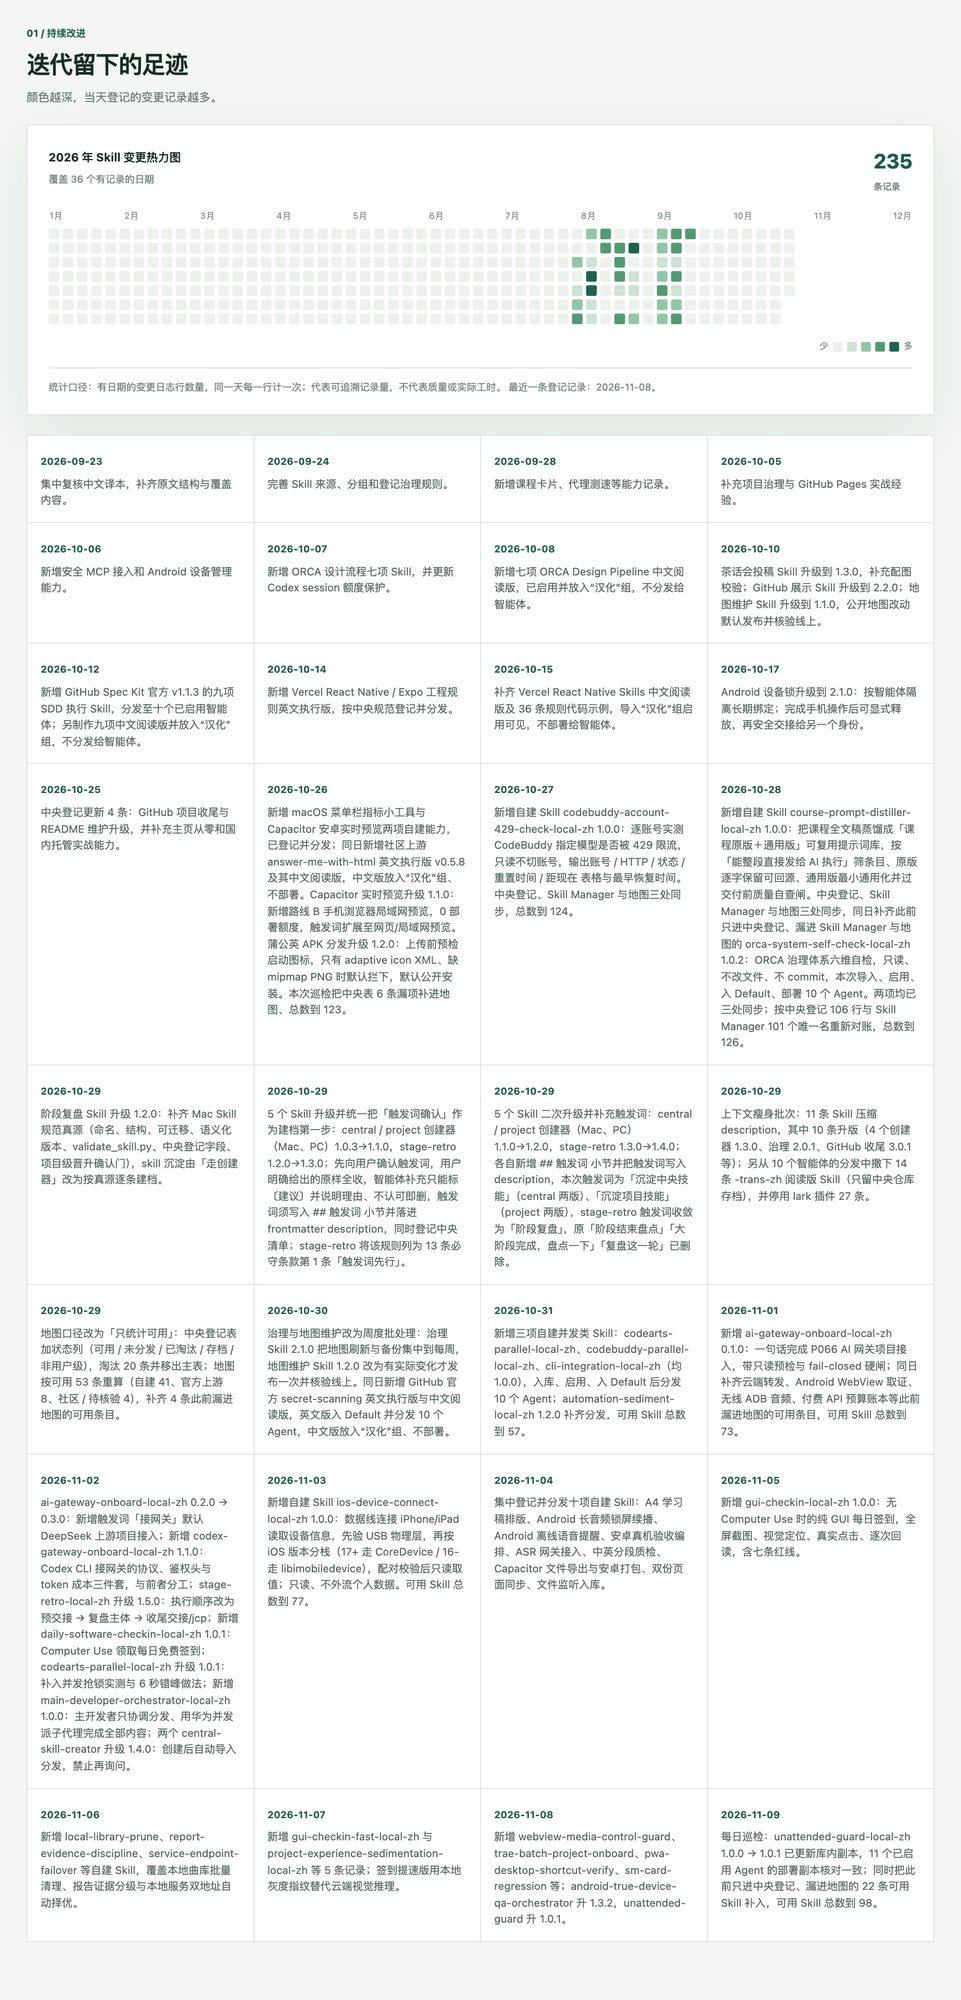
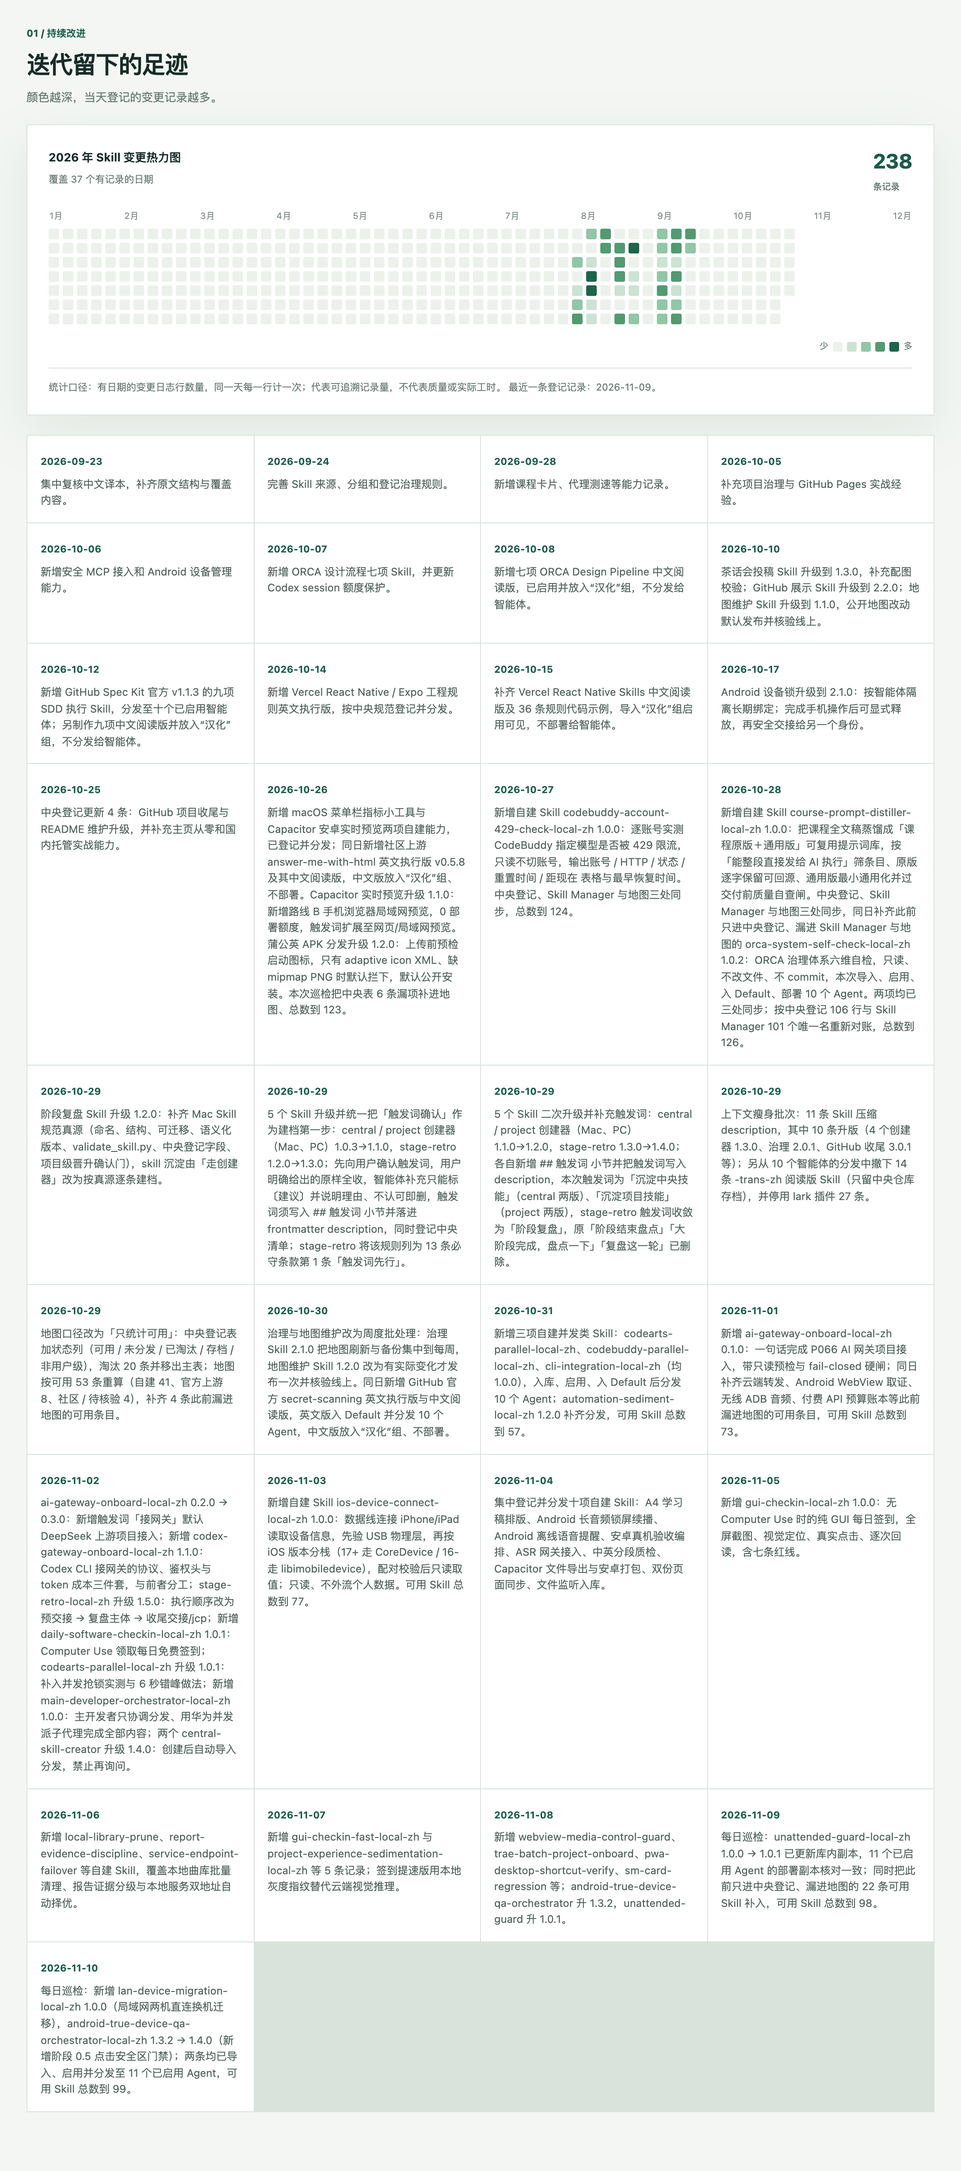
每日巡检：新增换机迁移 Skill，更新真机验收编排到 1.4.0
同步 2026-11-10 中央登记：新增 lan-device-migration-local-zh 1.0.0，
android-true-device-qa-orchestrator-local-zh 升至 1.4.0；可用 Skill 共 99 项，
重截持续改进与能力盘点截图。

diff --git a/index.html b/index.html
@@ -119,7 +119,7 @@
     }
     document.getElementById('heatMonths').innerHTML=['1月','2月','3月','4月','5月','6月','7月','8月','9月','10月','11月','12月'].map(x=>`<span>${x}</span>`).join('');
     const dated=[...data.events].sort((a,b)=>b.date.localeCompare(a.date));const latest=dated[0]?.date||'—';document.getElementById('heatCaption').textContent=`统计口径：${data.countDefinition} 最近一条登记记录：${latest}。`;
-    const highlights=[['2026-09-23','集中复核中文译本，补齐原文结构与覆盖内容。'],['2026-09-24','完善 Skill 来源、分组和登记治理规则。'],['2026-09-28','新增课程卡片、代理测速等能力记录。'],['2026-10-05','补充项目治理与 GitHub Pages 实战经验。'],['2026-10-06','新增安全 MCP 接入和 Android 设备管理能力。'],['2026-10-07','新增 ORCA 设计流程七项 Skill，并更新 Codex session 额度保护。'],['2026-10-08','新增七项 ORCA Design Pipeline 中文阅读版，已启用并放入“汉化”组，不分发给智能体。'],['2026-10-10','茶话会投稿 Skill 升级到 1.3.0，补充配图校验；GitHub 展示 Skill 升级到 2.2.0；地图维护 Skill 升级到 1.1.0，公开地图改动默认发布并核验线上。'],['2026-10-12','新增 GitHub Spec Kit 官方 v1.1.3 的九项 SDD 执行 Skill，分发至十个已启用智能体；另制作九项中文阅读版并放入“汉化”组，不分发给智能体。'],['2026-10-14','新增 Vercel React Native / Expo 工程规则英文执行版，按中央规范登记并分发。'],['2026-10-15','补齐 Vercel React Native Skills 中文阅读版及 36 条规则代码示例，导入“汉化”组启用可见，不部署给智能体。'],['2026-10-17','Android 设备锁升级到 2.1.0：按智能体隔离长期绑定；完成手机操作后可显式释放，再安全交接给另一个身份。'],['2026-10-25','中央登记更新 4 条：GitHub 项目收尾与 README 维护升级，并补充主页从零和国内托管实战能力。'],['2026-10-26','新增 macOS 菜单栏指标小工具与 Capacitor 安卓实时预览两项自建能力，已登记并分发；同日新增社区上游 answer-me-with-html 英文执行版 v0.5.8 及其中文阅读版，中文版放入“汉化”组、不部署。Capacitor 实时预览升级 1.1.0：新增路线 B 手机浏览器局域网预览，0 部署额度，触发词扩展至网页/局域网预览。蒲公英 APK 分发升级 1.2.0：上传前预检启动图标，只有 adaptive icon XML、缺 mipmap PNG 时默认拦下，默认公开安装。本次巡检把中央表 6 条漏项补进地图、总数到 123。'],['2026-10-27','新增自建 Skill codebuddy-account-429-check-local-zh 1.0.0：逐账号实测 CodeBuddy 指定模型是否被 429 限流，只读不切账号，输出账号 / HTTP / 状态 / 重置时间 / 距现在 表格与最早恢复时间。中央登记、Skill Manager 与地图三处同步，总数到 124。'],['2026-10-28','新增自建 Skill course-prompt-distiller-local-zh 1.0.0：把课程全文稿蒸馏成「课程原版＋通用版」可复用提示词库，按「能整段直接发给 AI 执行」筛条目、原版逐字保留可回源、通用版最小通用化并过交付前质量自查闸。中央登记、Skill Manager 与地图三处同步，同日补齐此前只进中央登记、漏进 Skill Manager 与地图的 orca-system-self-check-local-zh 1.0.2：ORCA 治理体系六维自检，只读、不改文件、不 commit，本次导入、启用、入 Default、部署 10 个 Agent。两项均已三处同步；按中央登记 106 行与 Skill Manager 101 个唯一名重新对账，总数到 126。'],['2026-10-29','阶段复盘 Skill 升级 1.2.0：补齐 Mac Skill 规范真源（命名、结构、可迁移、语义化版本、validate_skill.py、中央登记字段、项目级晋升确认门），skill 沉淀由「走创建器」改为按真源逐条建档。'],['2026-10-29','5 个 Skill 升级并统一把「触发词确认」作为建档第一步：central / project 创建器（Mac、PC）1.0.3→1.1.0，stage-retro 1.2.0→1.3.0；先向用户确认触发词，用户明确给出的原样全收，智能体补充只能标〔建议〕并说明理由、不认可即删，触发词须写入 ## 触发词 小节并落进 frontmatter description，同时登记中央清单；stage-retro 将该规则列为 13 条必守条款第 1 条「触发词先行」。'],['2026-10-29','5 个 Skill 二次升级并补充触发词：central / project 创建器（Mac、PC）1.1.0→1.2.0，stage-retro 1.3.0→1.4.0；各自新增 ## 触发词 小节并把触发词写入 description，本次触发词为「沉淀中央技能」（central 两版）、「沉淀项目技能」（project 两版），stage-retro 触发词收敛为「阶段复盘」，原「阶段结束盘点」「大阶段完成，盘点一下」「复盘这一轮」已删除。'],['2026-10-29','上下文瘦身批次：11 条 Skill 压缩 description，其中 10 条升版（4 个创建器 1.3.0、治理 2.0.1、GitHub 收尾 3.0.1 等）；另从 10 个智能体的分发中撤下 14 条 -trans-zh 阅读版 Skill（只留中央仓库存档），并停用 lark 插件 27 条。'],['2026-10-29','地图口径改为「只统计可用」：中央登记表加状态列（可用 / 未分发 / 已淘汰 / 存档 / 非用户级），淘汰 20 条并移出主表；地图按可用 53 条重算（自建 41、官方上游 8、社区 / 待核验 4），补齐 4 条此前漏进地图的可用条目。'],['2026-10-30','治理与地图维护改为周度批处理：治理 Skill 2.1.0 把地图刷新与备份集中到每周，地图维护 Skill 1.2.0 改为有实际变化才发布一次并核验线上。同日新增 GitHub 官方 secret-scanning 英文执行版与中文阅读版，英文版入 Default 并分发 10 个 Agent，中文版放入“汉化”组、不部署。'],['2026-10-31','新增三项自建并发类 Skill：codearts-parallel-local-zh、codebuddy-parallel-local-zh、cli-integration-local-zh（均 1.0.0），入库、启用、入 Default 后分发 10 个 Agent；automation-sediment-local-zh 1.2.0 补齐分发，可用 Skill 总数到 57。'],['2026-11-01','新增 ai-gateway-onboard-local-zh 0.1.0：一句话完成 P066 AI 网关项目接入，带只读预检与 fail-closed 硬闸；同日补齐云端转发、Android WebView 取证、无线 ADB 音频、付费 API 预算账本等此前漏进地图的可用条目，可用 Skill 总数到 73。'],['2026-11-02','ai-gateway-onboard-local-zh 0.2.0 → 0.3.0：新增触发词「接网关」默认 DeepSeek 上游项目接入；新增 codex-gateway-onboard-local-zh 1.1.0：Codex CLI 接网关的协议、鉴权头与 token 成本三件套，与前者分工；stage-retro-local-zh 升级 1.5.0：执行顺序改为预交接 → 复盘主体 → 收尾交接/jcp；新增 daily-software-checkin-local-zh 1.0.1：Computer Use 领取每日免费签到；codearts-parallel-local-zh 升级 1.0.1：补入并发抢锁实测与 6 秒错峰做法；新增 main-developer-orchestrator-local-zh 1.0.0：主开发者只协调分发、用华为并发派子代理完成全部内容；两个 central-skill-creator 升级 1.4.0：创建后自动导入分发，禁止再询问。'],['2026-11-03','新增自建 Skill ios-device-connect-local-zh 1.0.0：数据线连接 iPhone/iPad 读取设备信息，先验 USB 物理层，再按 iOS 版本分栈（17+ 走 CoreDevice / 16- 走 libimobiledevice），配对校验后只读取值；只读、不外流个人数据。可用 Skill 总数到 77。'],['2026-11-04','集中登记并分发十项自建 Skill：A4 学习稿排版、Android 长音频锁屏续播、Android 离线语音提醒、安卓真机验收编排、ASR 网关接入、中英分段质检、Capacitor 文件导出与安卓打包、双份页面同步、文件监听入库。'],['2026-11-05','新增 gui-checkin-local-zh 1.0.0：无 Computer Use 时的纯 GUI 每日签到，全屏截图、视觉定位、真实点击、逐次回读，含七条红线。'],['2026-11-06','新增 local-library-prune、report-evidence-discipline、service-endpoint-failover 等自建 Skill，覆盖本地曲库批量清理、报告证据分级与本地服务双地址自动择优。'],['2026-11-07','新增 gui-checkin-fast-local-zh 与 project-experience-sedimentation-local-zh 等 5 条记录；签到提速版用本地灰度指纹替代云端视觉推理。'],['2026-11-08','新增 webview-media-control-guard、trae-batch-project-onboard、pwa-desktop-shortcut-verify、sm-card-regression 等；android-true-device-qa-orchestrator 升 1.3.2，unattended-guard 升 1.0.1。'],['2026-11-09','每日巡检：unattended-guard-local-zh 1.0.0 → 1.0.1 已更新库内副本，11 个已启用 Agent 的部署副本核对一致；同时把此前只进中央登记、漏进地图的 22 条可用 Skill 补入，可用 Skill 总数到 98。']];
+    const highlights=[['2026-09-23','集中复核中文译本，补齐原文结构与覆盖内容。'],['2026-09-24','完善 Skill 来源、分组和登记治理规则。'],['2026-09-28','新增课程卡片、代理测速等能力记录。'],['2026-10-05','补充项目治理与 GitHub Pages 实战经验。'],['2026-10-06','新增安全 MCP 接入和 Android 设备管理能力。'],['2026-10-07','新增 ORCA 设计流程七项 Skill，并更新 Codex session 额度保护。'],['2026-10-08','新增七项 ORCA Design Pipeline 中文阅读版，已启用并放入“汉化”组，不分发给智能体。'],['2026-10-10','茶话会投稿 Skill 升级到 1.3.0，补充配图校验；GitHub 展示 Skill 升级到 2.2.0；地图维护 Skill 升级到 1.1.0，公开地图改动默认发布并核验线上。'],['2026-10-12','新增 GitHub Spec Kit 官方 v1.1.3 的九项 SDD 执行 Skill，分发至十个已启用智能体；另制作九项中文阅读版并放入“汉化”组，不分发给智能体。'],['2026-10-14','新增 Vercel React Native / Expo 工程规则英文执行版，按中央规范登记并分发。'],['2026-10-15','补齐 Vercel React Native Skills 中文阅读版及 36 条规则代码示例，导入“汉化”组启用可见，不部署给智能体。'],['2026-10-17','Android 设备锁升级到 2.1.0：按智能体隔离长期绑定；完成手机操作后可显式释放，再安全交接给另一个身份。'],['2026-10-25','中央登记更新 4 条：GitHub 项目收尾与 README 维护升级，并补充主页从零和国内托管实战能力。'],['2026-10-26','新增 macOS 菜单栏指标小工具与 Capacitor 安卓实时预览两项自建能力，已登记并分发；同日新增社区上游 answer-me-with-html 英文执行版 v0.5.8 及其中文阅读版，中文版放入“汉化”组、不部署。Capacitor 实时预览升级 1.1.0：新增路线 B 手机浏览器局域网预览，0 部署额度，触发词扩展至网页/局域网预览。蒲公英 APK 分发升级 1.2.0：上传前预检启动图标，只有 adaptive icon XML、缺 mipmap PNG 时默认拦下，默认公开安装。本次巡检把中央表 6 条漏项补进地图、总数到 123。'],['2026-10-27','新增自建 Skill codebuddy-account-429-check-local-zh 1.0.0：逐账号实测 CodeBuddy 指定模型是否被 429 限流，只读不切账号，输出账号 / HTTP / 状态 / 重置时间 / 距现在 表格与最早恢复时间。中央登记、Skill Manager 与地图三处同步，总数到 124。'],['2026-10-28','新增自建 Skill course-prompt-distiller-local-zh 1.0.0：把课程全文稿蒸馏成「课程原版＋通用版」可复用提示词库，按「能整段直接发给 AI 执行」筛条目、原版逐字保留可回源、通用版最小通用化并过交付前质量自查闸。中央登记、Skill Manager 与地图三处同步，同日补齐此前只进中央登记、漏进 Skill Manager 与地图的 orca-system-self-check-local-zh 1.0.2：ORCA 治理体系六维自检，只读、不改文件、不 commit，本次导入、启用、入 Default、部署 10 个 Agent。两项均已三处同步；按中央登记 106 行与 Skill Manager 101 个唯一名重新对账，总数到 126。'],['2026-10-29','阶段复盘 Skill 升级 1.2.0：补齐 Mac Skill 规范真源（命名、结构、可迁移、语义化版本、validate_skill.py、中央登记字段、项目级晋升确认门），skill 沉淀由「走创建器」改为按真源逐条建档。'],['2026-10-29','5 个 Skill 升级并统一把「触发词确认」作为建档第一步：central / project 创建器（Mac、PC）1.0.3→1.1.0，stage-retro 1.2.0→1.3.0；先向用户确认触发词，用户明确给出的原样全收，智能体补充只能标〔建议〕并说明理由、不认可即删，触发词须写入 ## 触发词 小节并落进 frontmatter description，同时登记中央清单；stage-retro 将该规则列为 13 条必守条款第 1 条「触发词先行」。'],['2026-10-29','5 个 Skill 二次升级并补充触发词：central / project 创建器（Mac、PC）1.1.0→1.2.0，stage-retro 1.3.0→1.4.0；各自新增 ## 触发词 小节并把触发词写入 description，本次触发词为「沉淀中央技能」（central 两版）、「沉淀项目技能」（project 两版），stage-retro 触发词收敛为「阶段复盘」，原「阶段结束盘点」「大阶段完成，盘点一下」「复盘这一轮」已删除。'],['2026-10-29','上下文瘦身批次：11 条 Skill 压缩 description，其中 10 条升版（4 个创建器 1.3.0、治理 2.0.1、GitHub 收尾 3.0.1 等）；另从 10 个智能体的分发中撤下 14 条 -trans-zh 阅读版 Skill（只留中央仓库存档），并停用 lark 插件 27 条。'],['2026-10-29','地图口径改为「只统计可用」：中央登记表加状态列（可用 / 未分发 / 已淘汰 / 存档 / 非用户级），淘汰 20 条并移出主表；地图按可用 53 条重算（自建 41、官方上游 8、社区 / 待核验 4），补齐 4 条此前漏进地图的可用条目。'],['2026-10-30','治理与地图维护改为周度批处理：治理 Skill 2.1.0 把地图刷新与备份集中到每周，地图维护 Skill 1.2.0 改为有实际变化才发布一次并核验线上。同日新增 GitHub 官方 secret-scanning 英文执行版与中文阅读版，英文版入 Default 并分发 10 个 Agent，中文版放入“汉化”组、不部署。'],['2026-10-31','新增三项自建并发类 Skill：codearts-parallel-local-zh、codebuddy-parallel-local-zh、cli-integration-local-zh（均 1.0.0），入库、启用、入 Default 后分发 10 个 Agent；automation-sediment-local-zh 1.2.0 补齐分发，可用 Skill 总数到 57。'],['2026-11-01','新增 ai-gateway-onboard-local-zh 0.1.0：一句话完成 P066 AI 网关项目接入，带只读预检与 fail-closed 硬闸；同日补齐云端转发、Android WebView 取证、无线 ADB 音频、付费 API 预算账本等此前漏进地图的可用条目，可用 Skill 总数到 73。'],['2026-11-02','ai-gateway-onboard-local-zh 0.2.0 → 0.3.0：新增触发词「接网关」默认 DeepSeek 上游项目接入；新增 codex-gateway-onboard-local-zh 1.1.0：Codex CLI 接网关的协议、鉴权头与 token 成本三件套，与前者分工；stage-retro-local-zh 升级 1.5.0：执行顺序改为预交接 → 复盘主体 → 收尾交接/jcp；新增 daily-software-checkin-local-zh 1.0.1：Computer Use 领取每日免费签到；codearts-parallel-local-zh 升级 1.0.1：补入并发抢锁实测与 6 秒错峰做法；新增 main-developer-orchestrator-local-zh 1.0.0：主开发者只协调分发、用华为并发派子代理完成全部内容；两个 central-skill-creator 升级 1.4.0：创建后自动导入分发，禁止再询问。'],['2026-11-03','新增自建 Skill ios-device-connect-local-zh 1.0.0：数据线连接 iPhone/iPad 读取设备信息，先验 USB 物理层，再按 iOS 版本分栈（17+ 走 CoreDevice / 16- 走 libimobiledevice），配对校验后只读取值；只读、不外流个人数据。可用 Skill 总数到 77。'],['2026-11-04','集中登记并分发十项自建 Skill：A4 学习稿排版、Android 长音频锁屏续播、Android 离线语音提醒、安卓真机验收编排、ASR 网关接入、中英分段质检、Capacitor 文件导出与安卓打包、双份页面同步、文件监听入库。'],['2026-11-05','新增 gui-checkin-local-zh 1.0.0：无 Computer Use 时的纯 GUI 每日签到，全屏截图、视觉定位、真实点击、逐次回读，含七条红线。'],['2026-11-06','新增 local-library-prune、report-evidence-discipline、service-endpoint-failover 等自建 Skill，覆盖本地曲库批量清理、报告证据分级与本地服务双地址自动择优。'],['2026-11-07','新增 gui-checkin-fast-local-zh 与 project-experience-sedimentation-local-zh 等 5 条记录；签到提速版用本地灰度指纹替代云端视觉推理。'],['2026-11-08','新增 webview-media-control-guard、trae-batch-project-onboard、pwa-desktop-shortcut-verify、sm-card-regression 等；android-true-device-qa-orchestrator 升 1.3.2，unattended-guard 升 1.0.1。'],['2026-11-09','每日巡检：unattended-guard-local-zh 1.0.0 → 1.0.1 已更新库内副本，11 个已启用 Agent 的部署副本核对一致；同时把此前只进中央登记、漏进地图的 22 条可用 Skill 补入，可用 Skill 总数到 98。'],['2026-11-10','每日巡检：新增 lan-device-migration-local-zh 1.0.0（局域网两机直连换机迁移），android-true-device-qa-orchestrator-local-zh 1.3.2 → 1.4.0（新增阶段 0.5 点击安全区门禁）；两条均已导入、启用并分发至 11 个已启用 Agent，可用 Skill 总数到 99。']];
     document.getElementById('recent').innerHTML=highlights.map(([date,text])=>`<article><time>${date}</time><p>${escapeHtml(text)}</p></article>`).join('');
   }
   load().catch(err=>{document.getElementById('skillRows').innerHTML=`<tr><td colspan="5" class="empty">${escapeHtml(err.message)}。请稍后刷新页面。</td></tr>`;document.getElementById('heatSub').textContent='迭代记录暂时不可用'});

diff --git a/README.en.md b/README.en.md
@@ -26,11 +26,11 @@ Domains include life management, travel, requirements, project collaboration, UI
 
 ## Public data snapshot
 
-The public page reflects a data snapshot from **2026-11-09**, with 98 “available” Skills. Only entries marked “available” in the central registry are counted; archived, undistributed, and non-user-level entries are excluded. Translations and their English originals are listed separately. Community contributions and entries with unverified sources are labeled “Community / Unverified.”
+The public page reflects a data snapshot from **2026-11-10**, with 99 “available” Skills. Only entries marked “available” in the central registry are counted; archived, undistributed, and non-user-level entries are excluded. Translations and their English originals are listed separately. Community contributions and entries with unverified sources are labeled “Community / Unverified.”
 
 | Source | Count | Description |
 | --- | ---: | --- |
-| Self-built | 79 | Original skills and practical experience captured for reuse |
+| Self-built | 80 | Original skills and practical experience captured for reuse |
 | Official upstream | 9 | Skills from official product or project repositories |
 | Community / Unverified | 10 | Community contributions or entries whose source has not been confirmed |
 

diff --git a/README.md b/README.md
@@ -26,11 +26,11 @@
 
 ## 当前公开数据
 
-公开页面的数据快照截至 **2026-11-09**，共 98 个「可用」Skill。口径只统计中央登记中状态为「可用」的条目；存档、未分发、非用户级条目不进入地图。翻译版与英文原版作为独立条目展示；社区作品和来源尚未确认的条目归入“社区 / 待核验”。
+公开页面的数据快照截至 **2026-11-10**，共 99 个「可用」Skill。口径只统计中央登记中状态为「可用」的条目；存档、未分发、非用户级条目不进入地图。翻译版与英文原版作为独立条目展示；社区作品和来源尚未确认的条目归入“社区 / 待核验”。
 
 | 来源 | 数量 | 说明 |
 | --- | ---: | --- |
-| 自建 | 79 | 原创或实操经验沉淀 |
+| 自建 | 80 | 原创或实操经验沉淀 |
 | 官方上游 | 9 | 来自产品或项目的官方仓库 |
 | 社区 / 待核验 | 10 | 外部社区作品或来源尚未确认 |
 
